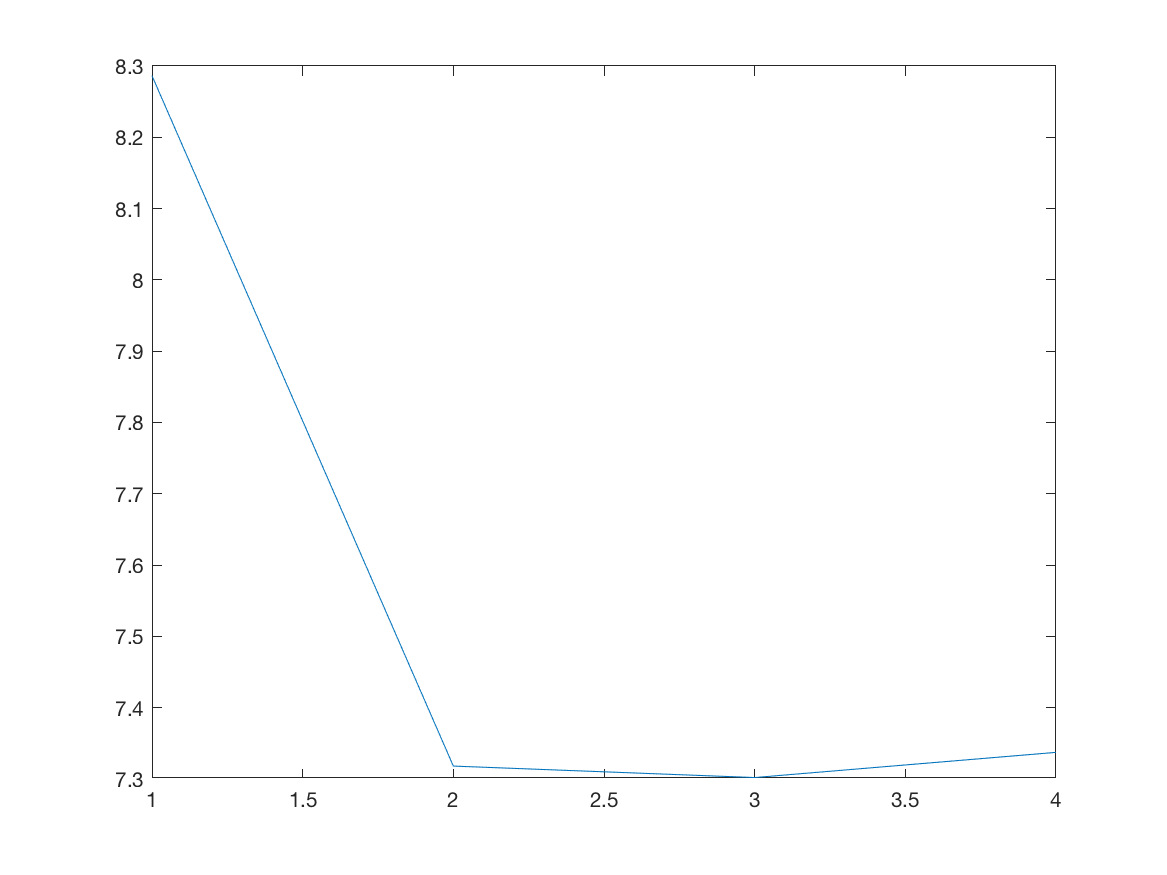
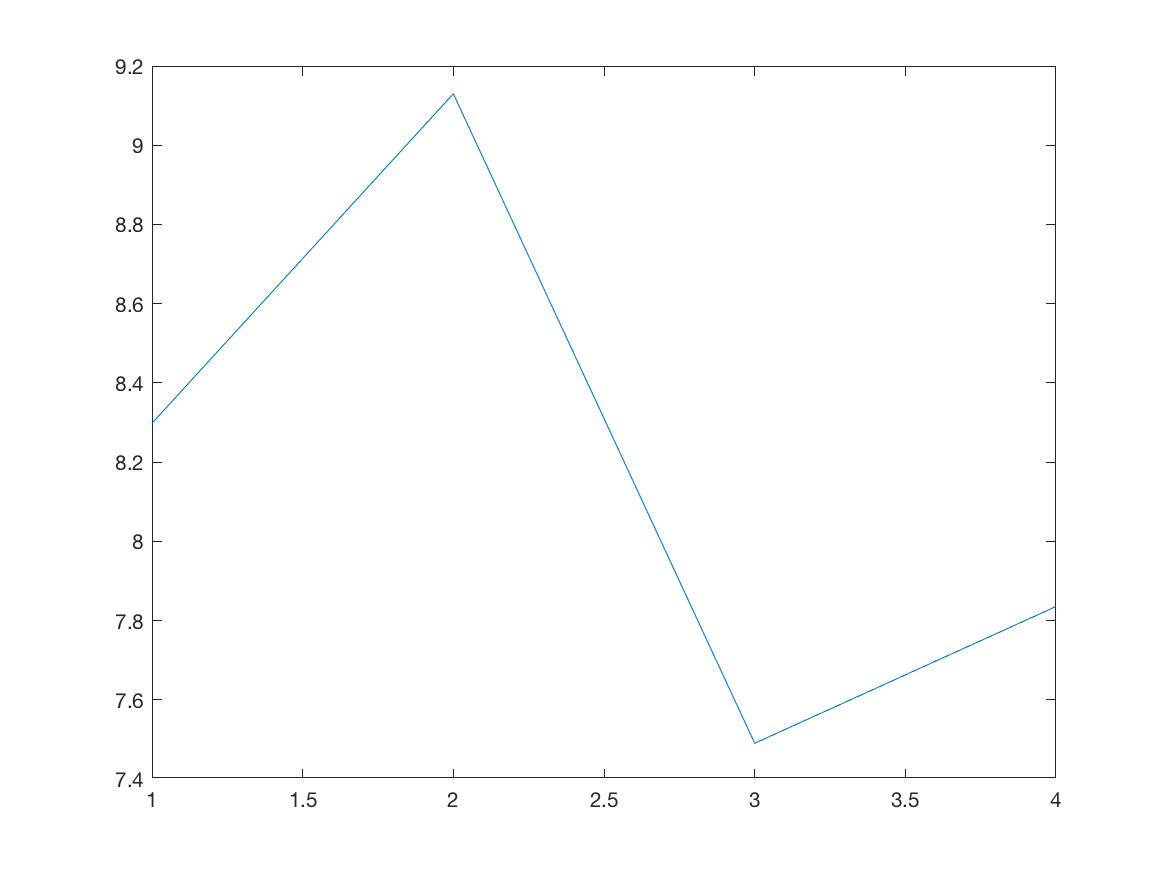
Push results

diff --git a/scripts/MAP2D.m b/scripts/MAP2D.m
@@ -129,7 +129,7 @@ noise_estimate = mean(noise_estimate(:));
 noise_estimate = repmat(noise_estimate, size(f_projections, 1), 1);
 
 % Calculate the variance of the prior gaussian distribution.
-prior_variance = 10*abs(f_image_estimate).^2;
+prior_variance = 20*abs(f_image_estimate).^2;
 prior_variance = mean(prior_variance(:));
 
 first_orientation = Orientation(first_estimate_theta, first_estimate_shifts);
@@ -252,7 +252,7 @@ for q=1:no_of_iterations
     shift_estimate = correct_shift;
 
     % Calculate the variance of the prior gaussian distribution.
-    prior_variance = 10*abs(f_image_estimate).^2;
+    prior_variance = 20*abs(f_image_estimate).^2;
     prior_variance = mean(prior_variance(:));
 end
 
